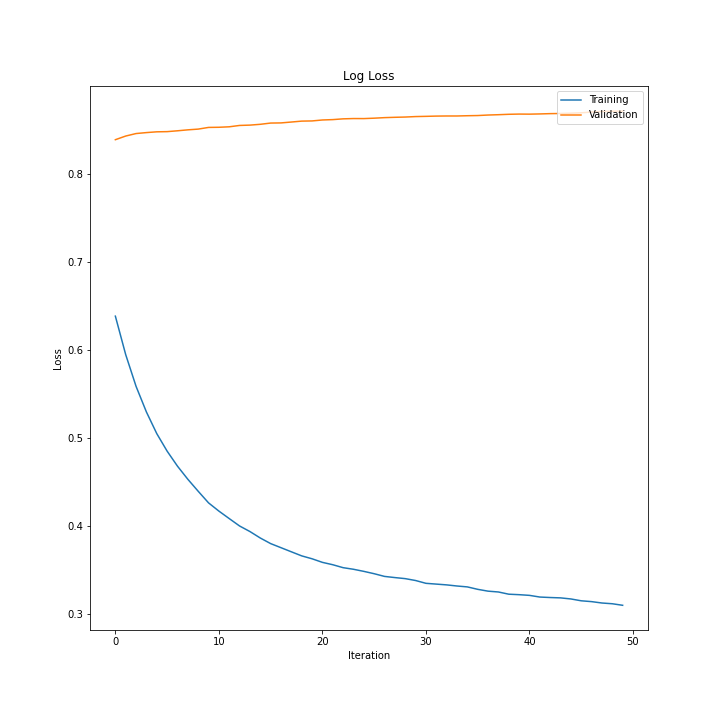
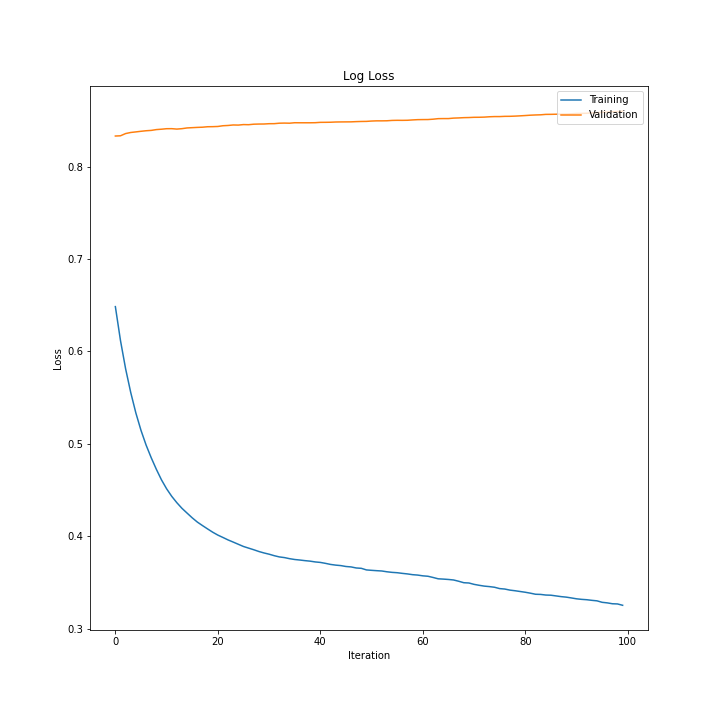
updated hyperparameter tuning and improved model

diff --git a/source/xgboost_model.py b/source/xgboost_model.py
@@ -118,10 +118,10 @@ class XGBoostModel:
         self.model = XGBClassifier()
 
         # create an instance of the GridSearchCV class
-        grid = GridSearchCV(self.model, grid_params, cv=3, scoring='accuracy', n_jobs=-1)
+        grid = GridSearchCV(self.model, grid_params, cv=3, scoring='accuracy', n_jobs=-1, verbose=1)
 
         # fit the GridSearchCV object on the training data
-        grid = grid.fit(X_train, y_train, eval_set=[(X_val, y_val)], eval_metric='error', verbose=0)
+        grid = grid.fit(X_train, y_train, eval_set=[(X_val, y_val)], eval_metric='logloss')
 
         def save_best_parameters(file_path:str, file_name:str, grid):
             """
@@ -156,17 +156,17 @@ class XGBoostModel:
         :param log_data: dict, log data
         :return: pd.DataFrame, DataFrame containing log data
         """
-        # Extract data from log data
+        # extract data from log data
         train_loss = log_data['validation_0']['logloss']
         train_acc = log_data['validation_1']['logloss']
         val_loss = log_data['validation_0']['accuracy']
         val_acc = log_data['validation_1']['accuracy']
         iteration = list(range(0,len(train_loss)))
 
-        # Define column names
+        # define column names
         columns = ['iteration', 'train_loss', 'train_acc', 'val_loss', 'val_acc']
 
-        # Create DataFrame from extracted data and column names
+        # create DataFrame from extracted data and column names
         return pd.DataFrame(list(zip(iteration, train_loss, train_acc, val_loss, val_acc)), columns=columns)
 
     def predict(self, X_test: np.ndarray) -> np.ndarray:
